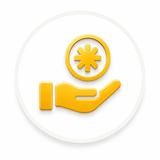
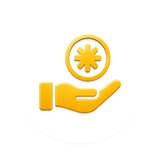
ROM_BUSINESS: rend transparent le fond blanc de l'icone Encaisser
icon-encaisser.png avait un cercle blanc opaque (avec ombre portee) integre
dans le fichier, contrairement a icon-envoyer.png qui est deja transparent -
d'ou les "debords carres/blancs" visibles dans le cadre arrondi (fond vert
clair --gl) de l'onglet Encaisser. Detoure par chromakey (le blanc/gris peu
sature devient transparent, en degrade pour lisser les bords ; le dore/
orange de l'icone reste intact). Bump du cache SW (v3->v4) puisque ce
fichier fait partie de SHELL_FILES.

diff --git a/business/sw.js b/business/sw.js
@@ -8,7 +8,7 @@
 // rapides (les forcer aussi ralentirait l'app pour rien).
 // ═══════════════════════════════════════════
 
-var CACHE_NAME = 'rombiz-shell-v3';
+var CACHE_NAME = 'rombiz-shell-v4';
 var SHELL_FILES = ['./', './index.html', './manifest.json',
   './favicon.png', './apple-touch-icon.png', './logo.jpg',
   './icon-encaisser.png', './icon-envoyer.png', './wallet-icon.jpg',
